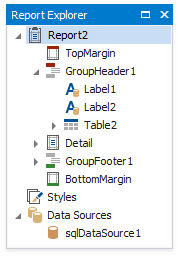
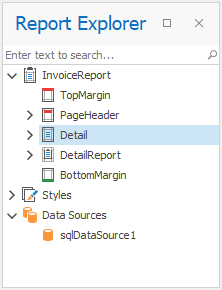
update content

diff --git a/reporting-for-desktop/articles/report-designer/report-designer-for-winforms/use-report-elements/use-bar-codes/bar-code-recognition-specifics.md b/reporting-for-desktop/articles/report-designer/report-designer-for-winforms/use-report-elements/use-bar-codes/bar-code-recognition-specifics.md
@@ -11,15 +11,15 @@ Selecting an appropriate barcode type (symbology) depends on your specific busin
 
 In general, consider using [Barcode 2 of 5 Interleaved](interleaved-2-of-5.md) for encoding digits and [Barcode 39](code-39-usd-3.md) for encoding the full range of ASCII characters.
 
-## Insert the Function Code One Character (FNC1) or the Application Identifier into a Barcode
+## Insert the Function Code Characters (FNC) or the Application Identifier into a Barcode
+
 Some encodings enable you to insert a special **FNC1** character for separating application identifiers from the rest of the barcode.
 
 According to the **GS1** specification, the **FNC1** character is always inserted at the first position of the encoded data. Other identifiers can be inserted manually using the default "**#**" character.
 
 Although you can use any ASCII character as the **FNC1** placeholder, it will not be a part of the encoded data as it does not have any direct ASCII representation.
 
-> [!NOTE]
-> For the [Code 128](code-128.md) symbology, only **FNC1** characters are currently supported. At present, there is no way to define **FNC2** - **4** characters for this barcode.
+For the [Code 128](code-128.md) symbology, you can also define **FNC2-4** characters.
 
 For the list of the available application identifiers, refer to the official documentation at [www.gs1.org](http://www.gs1.org/).
 

diff --git a/reporting-for-web/articles/report-designer/use-report-elements/use-bar-codes/bar-code-recognition-specifics.md b/reporting-for-web/articles/report-designer/use-report-elements/use-bar-codes/bar-code-recognition-specifics.md
@@ -11,15 +11,15 @@ Selecting an appropriate barcode type (symbology) depends on your specific busin
 
 In general, consider using [Barcode 2 of 5 Interleaved](interleaved-2-of-5.md) for encoding digits and [Barcode 39](code-39-usd-3.md) for encoding the full range of ASCII characters.
 
-## Insert the Function Code One Character (FNC1) or the Application Identifier into a Barcode
+## Insert the Function Code Characters (FNC) or the Application Identifier into a Barcode
+
 Some encodings enable you to insert a special **FNC1** character for separating application identifiers from the rest of the barcode.
 
 According to the **GS1** specification, the **FNC1** character is always inserted at the first position of the encoded data. Other identifiers can be inserted manually using the default "**#**" character.
 
 Although you can use any ASCII character as the **FNC1** placeholder, it will not be a part of the encoded data as it does not have any direct ASCII representation.
 
-> [!NOTE]
-> For the [Code 128](code-128.md) symbology, only **FNC1** characters are currently supported. At present, there is no way to define **FNC2** - **4** characters for this barcode.
+For the [Code 128](code-128.md) symbology, you can also define **FNC2-4** characters.
 
 For the list of the available application identifiers, refer to the official documentation at [www.gs1.org](http://www.gs1.org/).
 

diff --git a/reporting-for-web/articles/report-designer/use-report-elements/use-bar-codes/code-128.md b/reporting-for-web/articles/report-designer/use-report-elements/use-bar-codes/code-128.md
@@ -29,3 +29,19 @@ In the [property grid](../../report-designer-tools/ui-panels/properties-panel.md
 * **Character Set**
 	
 	Specifies the set of symbols which can be used when setting the barcode's text.
+
+* **FNC1 Functional Character**
+  
+    A substring/character that serves as the placeholder for the FNC1 functional character.
+
+* **FNC2 Functional Character**
+  
+    A substring/character that serves as the placeholder for the FNC2 functional character.
+
+* **FNC3 Functional Character**
+  
+    A substring/character that serves as the placeholder for the FNC3 functional character.
+
+* **FNC4 Functional Character**
+  
+    A substring/character that serves as the placeholder for the FNC4 functional character.

diff --git a/reporting-for-web/articles/report-designer/create-reports/reports-with-visual-pdf-signature.md b/reporting-for-web/articles/report-designer/create-reports/reports-with-visual-pdf-signature.md
@@ -36,6 +36,10 @@ Open **Preview** to show the result.
 
 ## Export and Sign the Report
 
+You can sign a report with a visual signature on export to PDF if an application contains an available signature. To sign the report on export, select a signature from the **Signature** drop-down list in [PDF Export Options](../../document-viewer/exporting/pdf-specific-export-options.md).
+
+You can also sign the exported document in a PDF editor. To so this, follow the steps below:
+
 1. In **Preview**, expand the list with export formats and select **PDF**.
 
     ![](../../../images/pdf-signature-report-sign-1.png)

diff --git a/reporting-for-desktop/articles/report-designer/report-designer-for-winforms/report-designer-tools/ui-panels/report-explorer.md b/reporting-for-desktop/articles/report-designer/report-designer-for-winforms/report-designer-tools/ui-panels/report-explorer.md
@@ -7,6 +7,11 @@ The **Report Explorer** shows a report structure in a tree-like form and provide
 
 ![RD_Elements_ReportExplorer](../../../../../images/eurd-win-report-explorer.png)
 
+## Search fields
+
+Enter a search string in the search box. The Report Explorer filters report elements, styles, and data sources to match the entered string.
+
+![Report Explorer - Search](../../../../../images/eurd-win-field-list-search.png)
 ## Report Bands and Controls
 
 Bands and controls are listed in a hierarchical tree-like structure.
